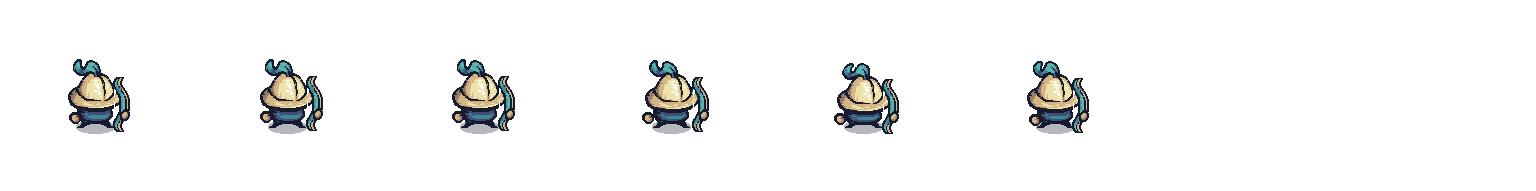
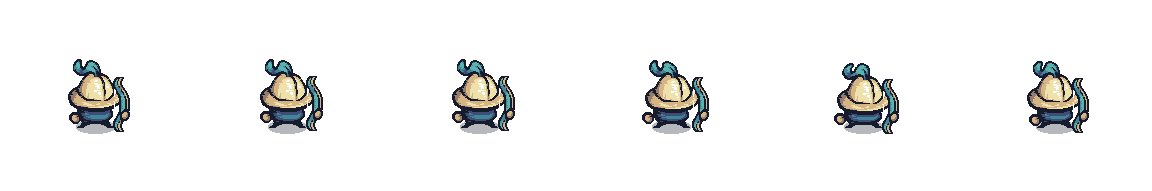
closer

diff --git a/src/renderer.ts b/src/renderer.ts
@@ -20,7 +20,7 @@ export class Renderer {
     if (this.gl) this.setup(); else this.fallback = canvas.getContext('2d');
     this.spriteCtx = sprites.getContext('2d')!; new ResizeObserver(() => this.resize()).observe(canvas.parentElement!); this.loadArt(); this.resize();
   }
-  private loadArt() { for (const [key, file] of Object.entries({ flat:'Tilemap_Flat.png', elevation:'Tilemap_Elevation.png', bridge:'Bridge_All.png', water:'Water.png', tree:'Tree.png', castle:'Castle_Blue.png', tower:'Tower_Blue.png', fire:'Fire.png', arrow:'Arrow.png', explosion:'Explosions.png', archer:'Archer_Blue.png', pawn:'Pawn_Blue.png', warrior:'Warrior_Blue.png' })) { const image = new Image(); image.src = `/assets/${file}`; image.onload = () => this.drawMap(); this.art[key] = image; } for(const file of ['enemy-torch-walk.png','enemy-barrel-walk.png','enemy-tnt-walk.png','enemy-warrior-walk.png','enemy-archer-walk.png']) { const image = new Image(); image.src=`/assets/${file}`; this.enemySpriteArt.push(image); } }
+  private loadArt() { for (const [key, file] of Object.entries({ flat:'Tilemap_Flat.png', elevation:'Tilemap_Elevation.png', bridge:'Bridge_All.png', water:'Water.png', tree:'Tree.png', castle:'Castle_Blue.png', tower:'Tower_Blue.png', fire:'Fire.png', arrow:'Arrow.png', explosion:'Explosions.png', archer:'Archer_Blue.png', archerBody:'Archer_Blue_NoArms.png', archerBow:'Archer_Bow_Blue.png', longbowIdle:'defender-longbow-ready.png', pawn:'Pawn_Blue.png', warrior:'Warrior_Blue.png' })) { const image = new Image(); image.src = `/assets/${file}`; image.onload = () => this.drawMap(); this.art[key] = image; } for(const file of ['enemy-torch-walk.png','enemy-barrel-walk.png','enemy-tnt-walk.png','enemy-warrior-walk.png','enemy-archer-walk.png']) { const image = new Image(); image.src=`/assets/${file}`; this.enemySpriteArt.push(image); } }
   private setChapter(wave: number) { const next = Math.min(4, Math.floor(Math.max(0, wave - 1) / 10)); if (next !== this.chapter) { this.chapter = next; this.drawMap(); } }
   get accelerated() { return !!this.gl; }
   private setup() { const gl = this.gl!; const p = gl.createProgram()!; gl.attachShader(p, compile(gl, gl.VERTEX_SHADER, vs)); gl.attachShader(p, compile(gl, gl.FRAGMENT_SHADER, fs)); gl.linkProgram(p); if (!gl.getProgramParameter(p, gl.LINK_STATUS)) throw new Error(gl.getProgramInfoLog(p) ?? 'link error'); this.program = p;
@@ -78,7 +78,7 @@ export class Renderer {
     c.globalAlpha = 1;
 
     const crew: Record<TowerKind, { image: string; cellW: number; idleRow: number; attackRow: number; insetX: number; insetY: number; width: number; height: number; drawW: number; drawH: number; trim: string }> = {
-      bolt: { image: 'archer', cellW: 256, idleRow: 0, attackRow: 3, insetX: 42, insetY: 40, width: 172, height: 118, drawW: 76, drawH: 66, trim: '#f5c451' },
+      bolt: { image: 'archer', cellW: 256, idleRow: 0, attackRow: 3, insetX: 42, insetY: 40, width: 172, height: 118, drawW: 84, drawH: 74, trim: '#f5c451' },
       mortar: { image: 'pawn', cellW: 192, idleRow: 0, attackRow: 3, insetX: 24, insetY: 40, width: 144, height: 116, drawW: 74, drawH: 66, trim: '#f06d45' },
       frost: { image: 'warrior', cellW: 192, idleRow: 0, attackRow: 2, insetX: 24, insetY: 32, width: 144, height: 126, drawW: 78, drawH: 69, trim: '#78d8e8' },
     };
@@ -87,7 +87,21 @@ export class Renderer {
       if (this.art.tower?.complete) c.drawImage(this.art.tower, 0, 0, 128, 256, x - 43, y - 116, 86, 172);
       c.fillStyle = spec.trim; c.fillRect(x - 29, y - 106, 6, 36);
       if (!image?.complete) continue;
-      const attacking = tower.attackTime > 0, frame = attacking ? Math.min(5, Math.floor((.34 - tower.attackTime) * 18)) : 0;
+      const attacking = tower.attackTime > 0;
+      if (tower.kind === 'bolt' && !attacking && this.art.longbowIdle?.complete) {
+        c.drawImage(this.art.longbowIdle, 0, 0, 192, 191, x - spec.drawW / 2, y - 132, spec.drawW, spec.drawH);
+        continue;
+      }
+      if (tower.kind === 'bolt' && this.art.archerBody?.complete && this.art.archerBow?.complete) {
+        const frame = Math.min(3, Math.floor((.22 - tower.attackTime) / .055));
+        c.drawImage(this.art.archerBody, frame * 192, 0, 192, 192, x - 42, y - 150, 84, 84);
+        c.drawImage(this.art.archerBow, (frame + 1) * 192, 192, 192, 192, x - 42, y - 150, 84, 84);
+        continue;
+      }
+      // Fallback only if the composed Archer art cannot load.
+      const frame = !attacking ? 0 : tower.kind === 'bolt'
+        ? 1 + Math.min(3, Math.floor((.22 - tower.attackTime) / .055))
+        : Math.min(5, Math.floor(((tower.kind === 'mortar' ? .32 : .22) - tower.attackTime) * 18));
       const row = attacking ? spec.attackRow : spec.idleRow;
       c.drawImage(image, frame * spec.cellW + spec.insetX, row * 192 + spec.insetY, spec.width, spec.height, x - spec.drawW / 2, y - 132, spec.drawW, spec.drawH);
     }
